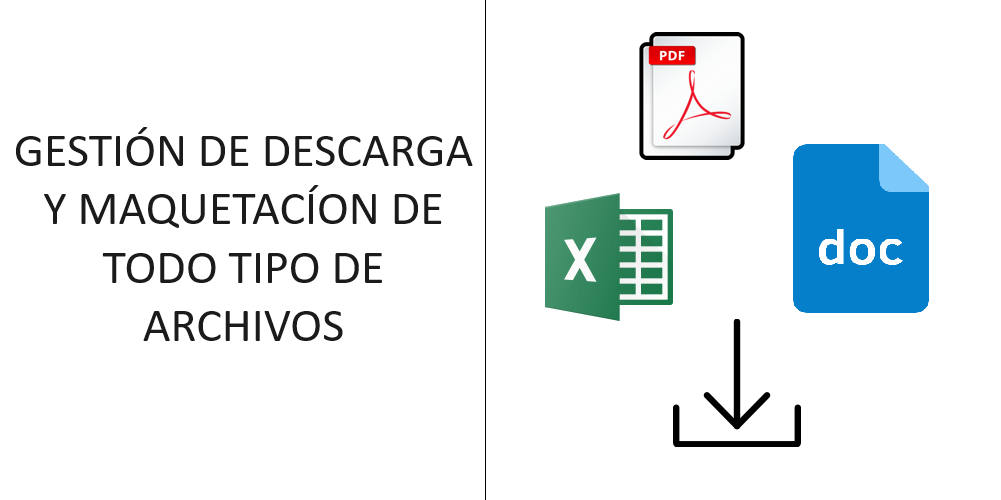
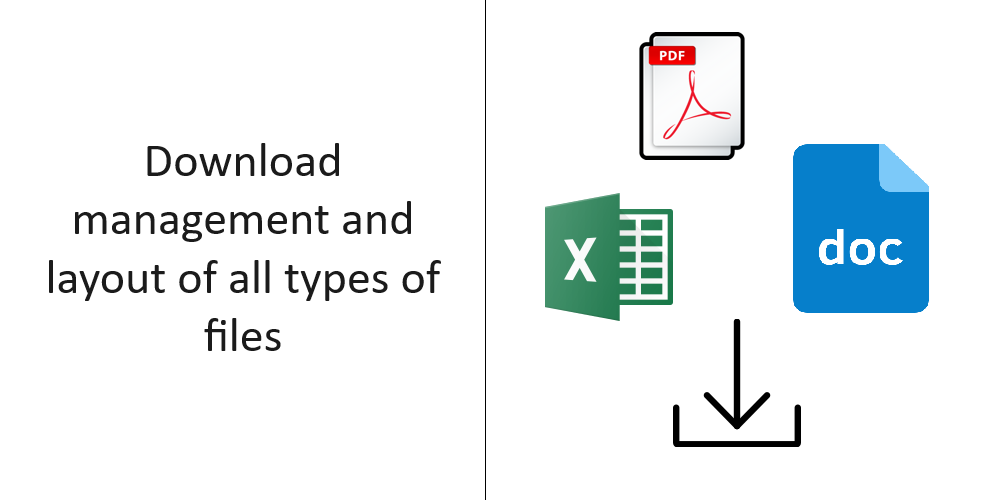
overflow hidden

Changed region(s): [[0.031, 0.39, 0.4336, 0.72], [0.0, 0.27, 0.4955, 0.36]]

diff --git a/src/app/home/home.component.ts b/src/app/home/home.component.ts
@@ -35,13 +35,11 @@ export class HomeComponent {
   secondImageCarousel = './../../assets/slide-2.png';
   thirdImageCarousel = './../../assets/slide-3.png';
 
-
   images: string[] = [
     this.firstImageCarousel,
     this.secondImageCarousel,
     this.thirdImageCarousel,
   ];
-
 
   displayedImages: string[] = [];
   currentIndex: number = 0;
@@ -52,23 +50,17 @@ export class HomeComponent {
   repeatTimes = 20;
 
   constructor(private homeService: HomeService) { }
-  private setHeaderActions() {
-    this.homeService.setHeaderActions();
-  }
 
   ngOnInit(): void {
-    const repeatedArray = Array(this.repeatTimes).fill(this.images).flat();
+    const repeatedArray = this.homeService.repeatElementsArray(this.repeatTimes, this.images)
     this.displayedImages = [...repeatedArray, this.images[0]];
     this.startCarousel();
     this.dynamicComponentParameters = this.homeService.getDynamicComponentParameters();
     this.setHeaderActions();
-
   }
 
-  ngOnDestroy() {
-    if (this.intervalSub) {
-      this.intervalSub.unsubscribe();
-    }
+  private setHeaderActions() {
+    this.homeService.setHeaderActions();
   }
 
   startCarousel() {
@@ -76,7 +68,6 @@ export class HomeComponent {
       this.nextImage();
     });
   }
-
   nextImage() {
     this.currentIndex++;
 
@@ -92,6 +83,11 @@ export class HomeComponent {
     } else {
       this.transition = 'transform 1.4s ease';
       this.transform = `translateX(-${this.currentIndex * 20}%)`;
+    }
+  }
+  ngOnDestroy() {
+    if (this.intervalSub) {
+      this.intervalSub.unsubscribe();
     }
   }
 }

diff --git a/src/app/home/service/home.service.ts b/src/app/home/service/home.service.ts
@@ -35,7 +35,7 @@ Thanks for your visit!`;
     const thirdthTitleCardTest = `Unit Test`;
     const thirdDescriptionCardTest = `With Karma and Jasmine`;
 
-    const forthTitleCardCarousel = `Conocimientos sobre ...`;
+    const forthTitleCardCarousel = `Skills ...`;
 
     return {
       firstTitleCard,
@@ -194,5 +194,9 @@ Thanks for your visit!`;
 
   navigateToRepository() {
     this.router.navigate(["repository"]);
+  }
+
+  repeatElementsArray(repeatTimes: any, images: any) {
+    return Array(repeatTimes).fill(images).flat();
   }
 }

diff --git a/src/app/home/home-desktop.component.css b/src/app/home/home-desktop.component.css
@@ -119,6 +119,8 @@ app-desktop-footer {
   display: flex;
   justify-content: center;
   align-items: center;
+  overflow: hidden;
+
 }
 
 .forth-app-title {
@@ -140,8 +142,8 @@ app-desktop-footer {
 }
 
 .carousel-item img {
+  margin: 30px;
   width: 100%;
   height: 350px;
-  margin: 30px;
   border: 1px solid rgb(212, 212, 212);
 }
